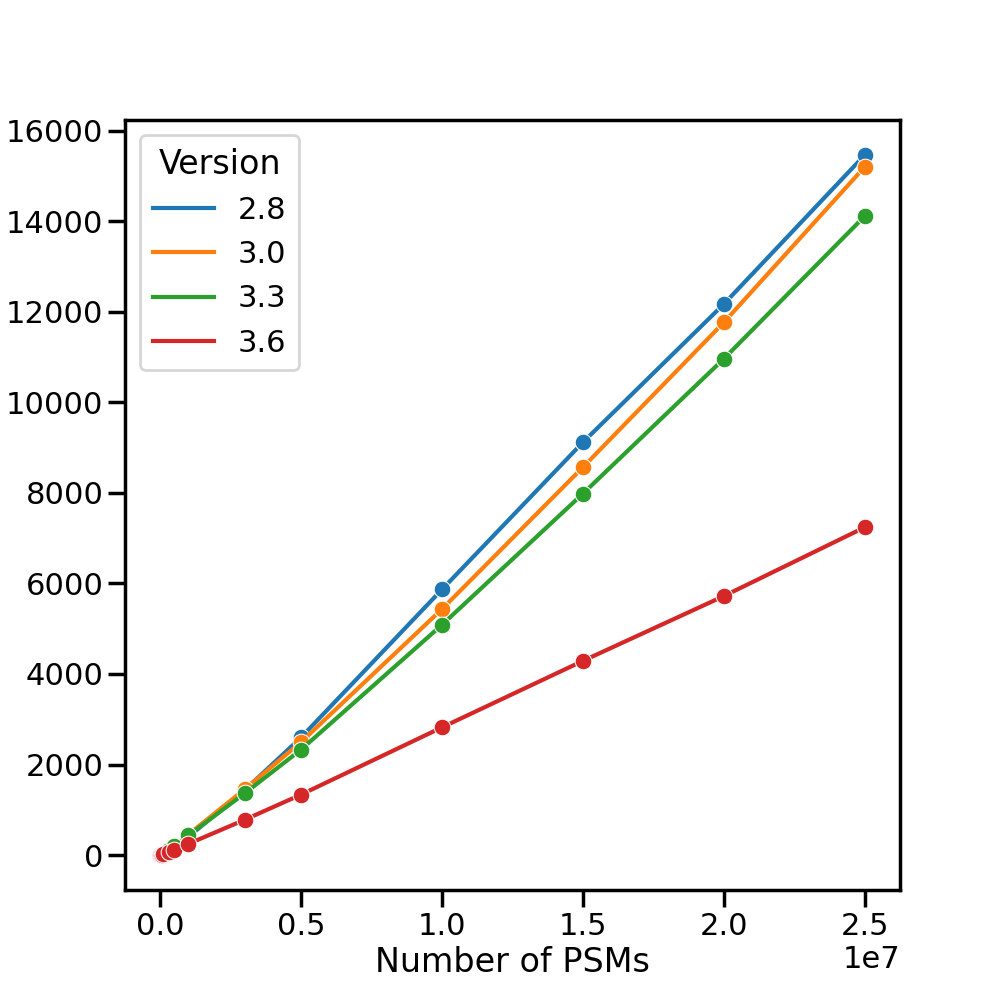
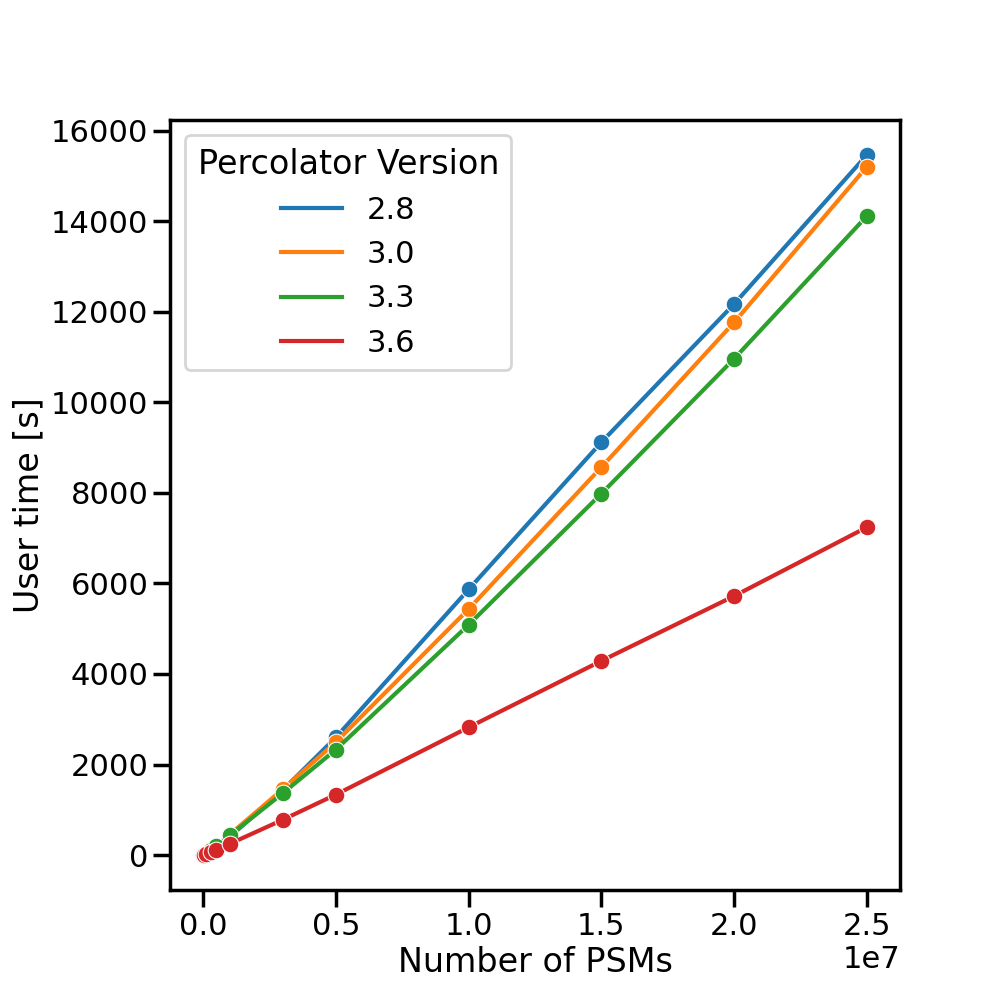
Updeted plots (again)

diff --git a/exp/mem+speed/plotsFromTime.py b/exp/mem+speed/plotsFromTime.py
@@ -52,7 +52,7 @@ for filename in glob.iglob(f'{resDir }/*.time'):
 vers = [ver for ver in runtimes.keys() for size in runtimes["2.8"].keys() ]
 sizes = [size for ver in runtimes.keys() for size in runtimes["2.8"].keys() ]
 time = pd.DataFrame({
-    "Version": vers,
+    "Percolator Version": vers,
     "size": sizes,
     "user": [runtimes[ver][size]['user'] for ver in runtimes.keys() for size in runtimes["2.8"].keys()],
     "system": [runtimes[ver][size]['system'] for ver in runtimes.keys() for size in runtimes["2.8"].keys()],
@@ -65,44 +65,47 @@ time["wall_rate"]=time["size"]/time["wall"]
 
 f, ax = plt.subplots(figsize=(10, 10))
 #ax.set(xscale="log", yscale="log")
-sns.lineplot(data=time, x="size", y="user", hue = "Version", 
+sns.lineplot(data=time, x="size", y="user", hue = "Percolator Version", 
     hue_order = ['2.8', '3.0', '3.3', '3.6'], marker="o", ax=ax)
+f.subplots_adjust(left=0.17)
 plt.xlabel("Number of PSMs")
 plt.ylabel("User time [s]")
 plt.savefig("img/user.png")
 
 f, ax = plt.subplots(figsize=(10, 10))
-sns.lineplot(data=time, x="size", y="system", hue = "Version", 
+sns.lineplot(data=time, x="size", y="system", hue = "Percolator Version", 
     hue_order = ['3.6', '3.3', '3.0', '2.8'], marker="o", ax=ax)
 plt.xlabel("Number of PSMs")
 plt.ylabel("System time [s]")
 plt.savefig("img/system.png")
-f, ax = plt.subplots(figsize=(10, 10))
 
-sns.lineplot(data=time, x="size", y="wall", hue = "Version", 
+f, ax = plt.subplots(figsize=(10, 10))
+gfg = sns.lineplot(data=time, x="size", y="wall", hue = "Percolator Version", 
     hue_order = ['2.8', '3.0', '3.3', '3.6'], marker="o", ax=ax)
-plt.xlabel("Number of PSMs")
-plt.ylabel("Wall time [s]")
+f.subplots_adjust(left=0.2)
+gfg.set(xlabel = "Number of PSMs", ylabel = "Wall time [s]")
 plt.savefig("img/wall.png")
 
 f, ax = plt.subplots(figsize=(10, 10))
-sns.lineplot(data=time, x="size", y="resident", hue = "Version", 
+sns.lineplot(data=time, x="size", y="resident", hue = "Percolator Version", 
     hue_order = ['2.8', '3.0', '3.3', '3.6'], marker="o", ax=ax)
 plt.xlabel("Number of PSMs")
 plt.ylabel("Peak Resident Memory Size [GB]")
 plt.savefig("img/memory.png")
 
 f, ax = plt.subplots(figsize=(10, 10))
-sns.lineplot(data=time[time["size"]>5000], x="size", y="cpu_rate", hue = "Version", 
+sns.lineplot(data=time[time["size"]>5000], x="size", y="cpu_rate", hue = "Percolator Version", 
     hue_order = ['3.6', '3.3', '3.0', '2.8'], marker="o", ax=ax)
+f.subplots_adjust(left=0.15)
 plt.xlabel("Number of PSMs")    
 plt.ylabel("PSMs Processed per CPU second")
 plt.ylim(0,5000)
 plt.savefig("img/rate.png")
 
 f, ax = plt.subplots(figsize=(10, 10))
-sns.lineplot(data=time[time["size"]>5000], x="size", y="wall_rate", hue = "Version", 
+sns.lineplot(data=time[time["size"]>5000], x="size", y="wall_rate", hue = "Percolator Version", 
     hue_order = ['3.6', '3.3', '3.0', '2.8'], marker="o", ax=ax)
+f.subplots_adjust(left=0.18)
 plt.xlabel("Number of PSMs")
 plt.ylabel("PSMs Processed per Wall second")
 #plt.ylim(0,5000)
